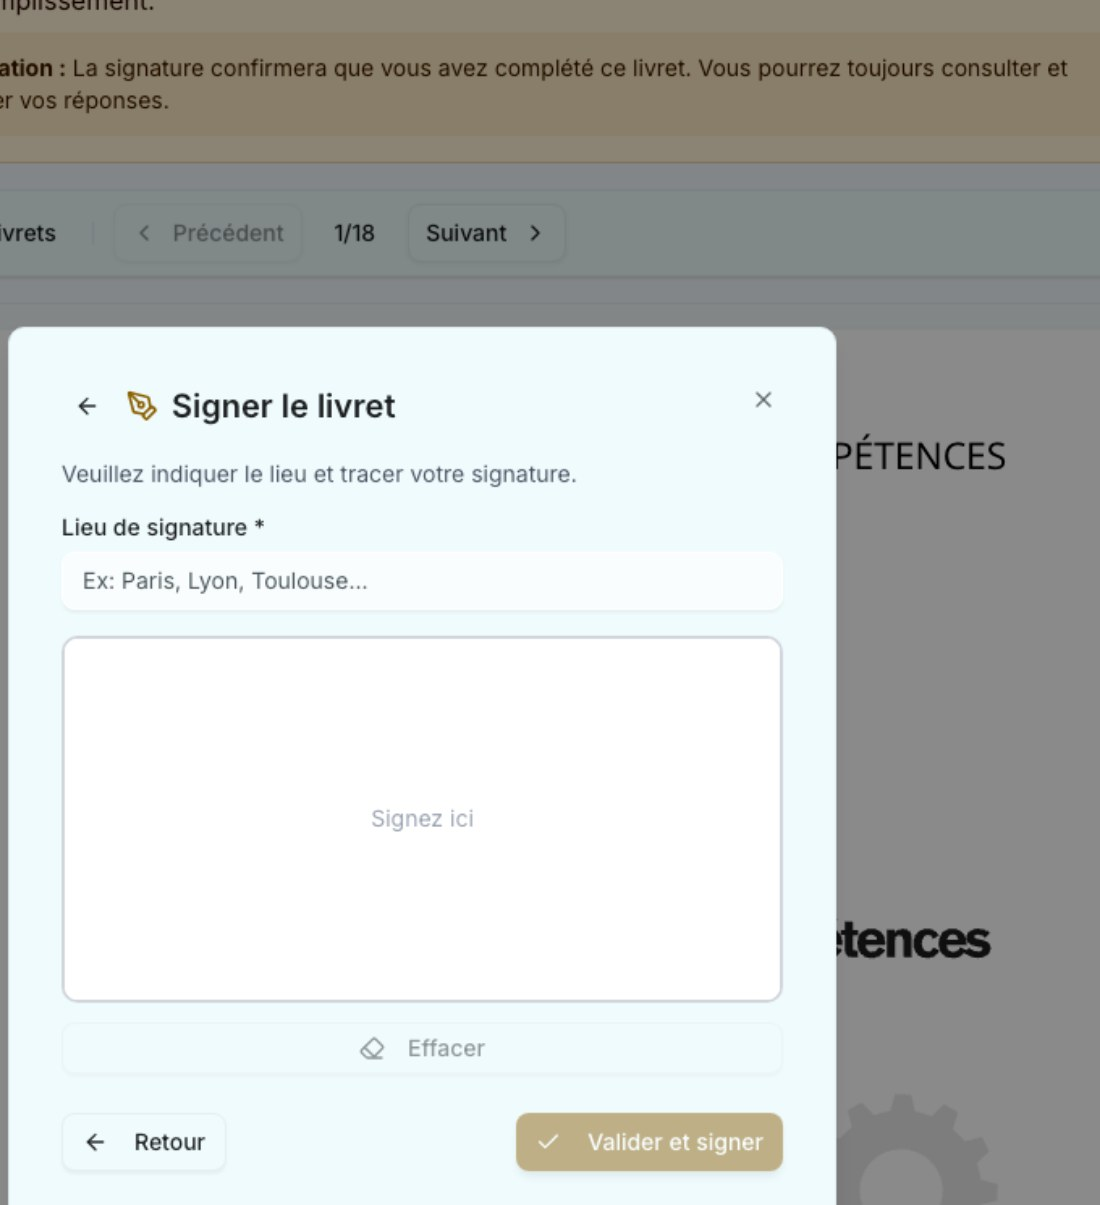
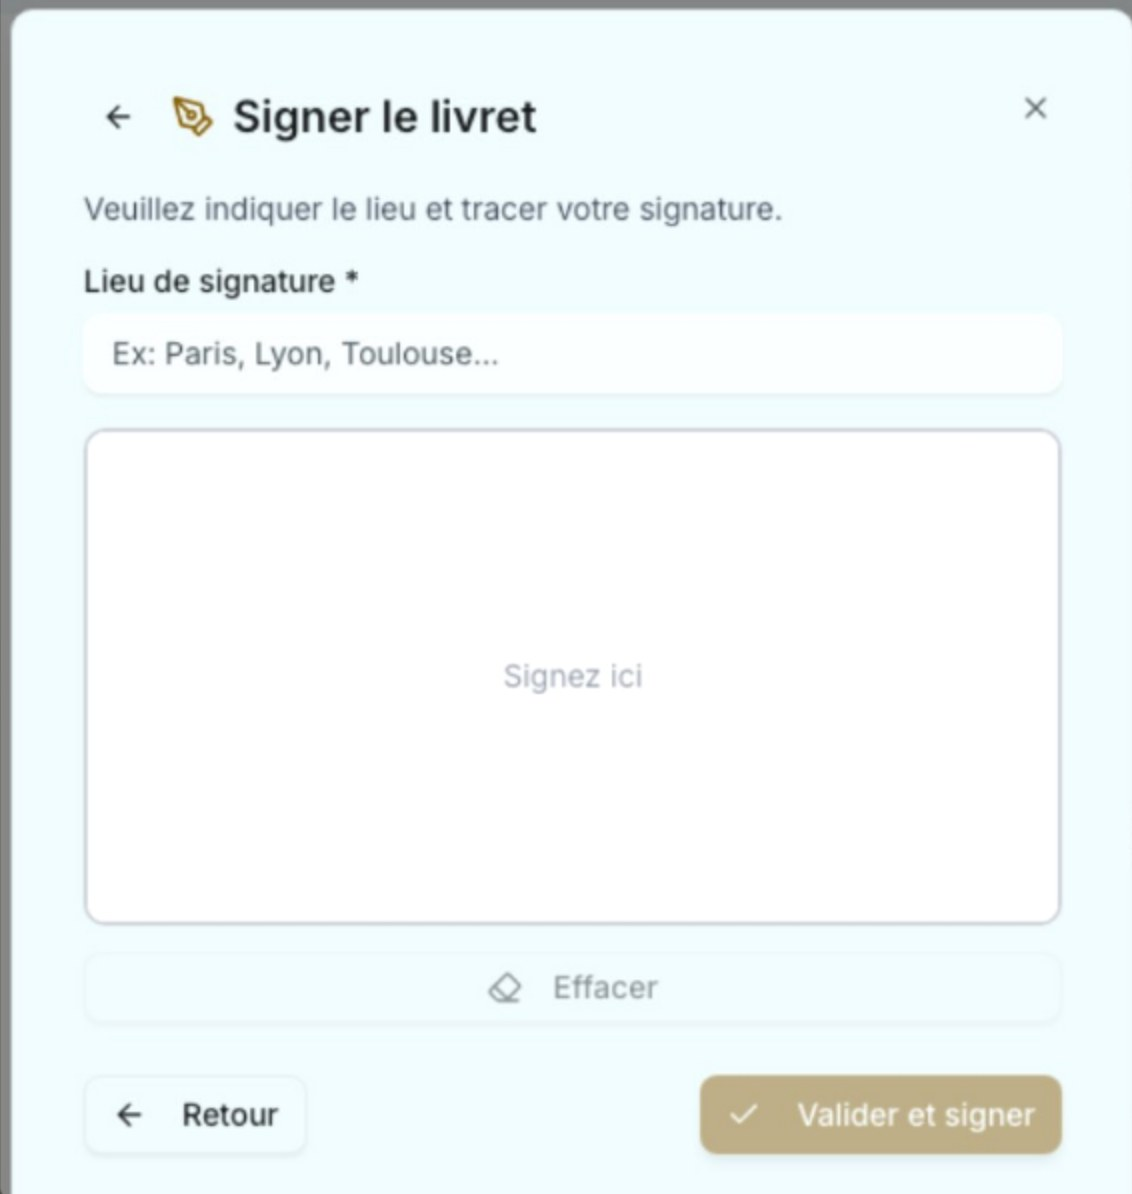
feat: supervision duo, cleaner piles, AI interpretation specimen, three stats

diff --git a/features/np-evolution/components/NpEvolution.tsx b/features/np-evolution/components/NpEvolution.tsx
@@ -78,7 +78,7 @@ export async function NpEvolution() {
 
         {/* La planche : 4 moments du général au concret, en quinconce (12 col) */}
         <div className="grid grid-cols-1 gap-y-[clamp(40px,7vh,80px)] lg:grid-cols-12 lg:gap-x-8 lg:gap-y-[clamp(56px,9vh,110px)]">
-          {/* 01 — la supervision (vue générale, fenêtre navigateur) */}
+          {/* 01 — la supervision : dashboard admin + détail consultant (la hiérarchie en images) */}
           <div className="relative lg:col-span-7 lg:col-start-1 lg:row-start-1">
             <ImageLightbox src="/images/np-dashboard.jpg" label={t('zoom')}>
               <BrowserFrame>
@@ -89,6 +89,11 @@ export async function NpEvolution() {
                   {t('badge')}
                 </span>
               </BrowserFrame>
+            </ImageLightbox>
+            <ImageLightbox src="/images/np-consultant.jpg" label={t('zoom')} className="absolute -bottom-[9%] -right-[3%] w-[46%]">
+              <div className="relative aspect-[965/530] overflow-hidden rounded-lg border border-hairline bg-surface shadow-xl shadow-ink/15">
+                <Image src="/images/np-consultant.jpg" alt="" fill sizes="(min-width:1024px) 24vw, 46vw" className="object-cover" />
+              </div>
             </ImageLightbox>
             <FilNode className="absolute -left-1.5 -top-1.5" />
           </div>
@@ -111,18 +116,18 @@ export async function NpEvolution() {
 
           {/* 02 — du livret à la signature : page interactive + modale + cartes, empilées */}
           <div className="relative lg:col-span-7 lg:col-start-6 lg:row-start-2">
-            <div className="relative aspect-[100/90]">
+            <div className="relative aspect-[100/76]">
               <ImageLightbox src="/images/np-livret-page.jpg" label={t('zoom')} className="absolute left-0 top-0 w-[46%]">
                 <div className="relative aspect-[900/1180] overflow-hidden rounded-lg border border-hairline bg-surface shadow-xl shadow-ink/10">
                   <Image src="/images/np-livret-page.jpg" alt="" fill sizes="(min-width:1024px) 26vw, 46vw" className="object-cover" />
                 </div>
               </ImageLightbox>
-              <ImageLightbox src="/images/np-signature-modal.jpg" label={t('zoom')} className="absolute right-0 top-0 w-[46%]">
-                <div className="relative aspect-[680/745] overflow-hidden rounded-lg border border-hairline bg-surface shadow-xl shadow-ink/15">
-                  <Image src="/images/np-signature-modal.jpg" alt="" fill sizes="(min-width:1024px) 26vw, 46vw" className="object-cover" />
+              <ImageLightbox src="/images/np-signature-modal.jpg" label={t('zoom')} className="absolute right-0 top-0 w-[44%]">
+                <div className="relative aspect-[566/597] overflow-hidden rounded-lg border border-hairline bg-surface shadow-xl shadow-ink/15">
+                  <Image src="/images/np-signature-modal.jpg" alt="" fill sizes="(min-width:1024px) 24vw, 44vw" className="object-cover" />
                 </div>
               </ImageLightbox>
-              <ImageLightbox src="/images/np-livrets.jpg" label={t('zoom')} className="absolute bottom-0 right-[6%] w-[58%]">
+              <ImageLightbox src="/images/np-livrets.jpg" label={t('zoom')} className="absolute bottom-0 right-[3%] w-[58%]">
                 <div className="relative aspect-[1090/520] overflow-hidden rounded-lg border border-hairline bg-surface shadow-xl shadow-ink/15">
                   <Image src="/images/np-livrets.jpg" alt="" fill sizes="(min-width:1024px) 30vw, 60vw" className="object-cover" />
                 </div>
@@ -147,13 +152,20 @@ export async function NpEvolution() {
             </ul>
           </div>
 
-          {/* 03 — tests + rapport IA (medley de captures à venir) */}
-          <div className="relative lg:col-span-4 lg:col-start-1 lg:row-start-3">
-            <ImageLightbox src="/images/np-radar.jpg" label={t('zoom')}>
-              <div className="relative aspect-[470/445] overflow-hidden rounded-lg border border-hairline bg-surface shadow-xl shadow-ink/10">
-                <Image src="/images/np-radar.jpg" alt="" fill sizes="(min-width:1024px) 30vw, 92vw" className="object-cover" />
-              </div>
-            </ImageLightbox>
+          {/* 03 — tests + rapport IA : radar + interprétation IA, empilés */}
+          <div className="relative lg:col-span-5 lg:col-start-1 lg:row-start-3">
+            <div className="relative aspect-[100/85]">
+              <ImageLightbox src="/images/np-radar.jpg" label={t('zoom')} className="absolute left-0 top-0 w-[54%]">
+                <div className="relative aspect-[470/445] overflow-hidden rounded-lg border border-hairline bg-surface shadow-xl shadow-ink/10">
+                  <Image src="/images/np-radar.jpg" alt="" fill sizes="(min-width:1024px) 22vw, 54vw" className="object-cover" />
+                </div>
+              </ImageLightbox>
+              <ImageLightbox src="/images/np-ia.jpg" label={t('zoom')} className="absolute bottom-0 right-0 w-[58%]">
+                <div className="relative aspect-[835/850] overflow-hidden rounded-lg border border-hairline bg-surface shadow-xl shadow-ink/15">
+                  <Image src="/images/np-ia.jpg" alt="" fill sizes="(min-width:1024px) 24vw, 58vw" className="object-cover" />
+                </div>
+              </ImageLightbox>
+            </div>
             <FilNode className="absolute -left-1.5 -top-1.5" />
           </div>
           <div className="self-center lg:col-span-4 lg:col-start-7 lg:row-start-3">
@@ -176,8 +188,8 @@ export async function NpEvolution() {
 
         {/* Usage réel (chiffres de prod) entre filets + la ligne « sous le capot » */}
         <div className="mt-[clamp(56px,9vh,110px)] border-y border-hairline">
-          <div className="grid grid-cols-2 gap-x-6 gap-y-7 py-8 lg:grid-cols-4">
-            {(['stat1', 'stat2', 'stat3', 'stat4'] as const).map((key) => (
+          <div className="grid grid-cols-1 gap-x-6 gap-y-7 py-8 sm:grid-cols-3">
+            {(['stat1', 'stat2', 'stat3'] as const).map((key) => (
               <div key={key}>
                 <div className="font-display text-[clamp(2rem,2.8vw,2.8rem)] font-normal leading-none tracking-tight text-accent">
                   {t(`${key}Value`)}